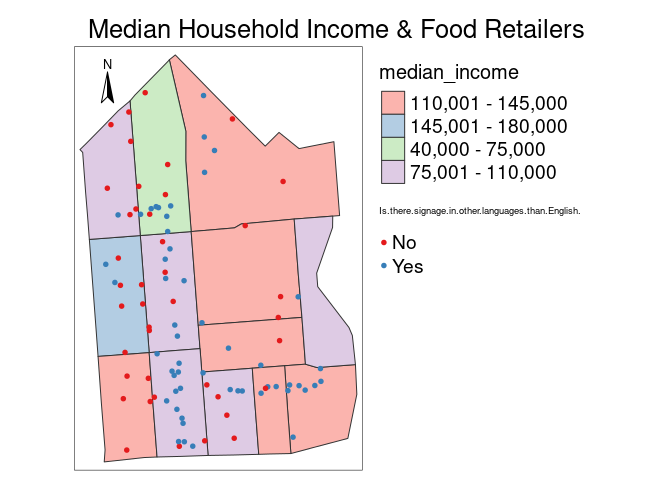
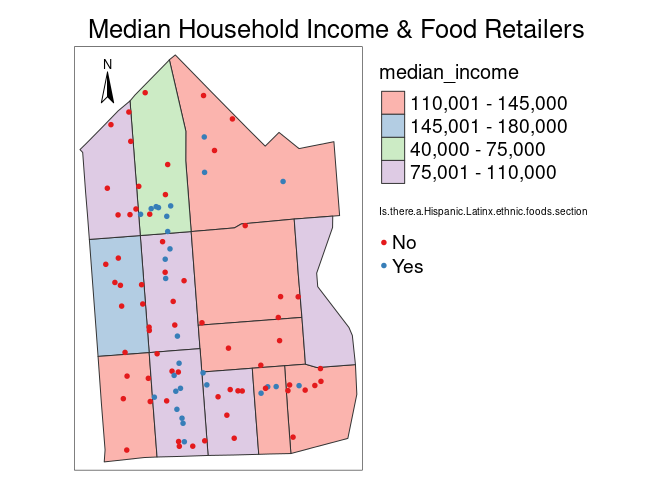
wac

diff --git a/Honors-Thesis-Workbook.md b/Honors-Thesis-Workbook.md
@@ -100,14 +100,14 @@ retail_data <- read_csv("Food Retail Final List (Edit 3_30).csv") %>%
 ```
 
     ## New names:
-    ## * `` -> ...47
+    ## * `` -> ...48
 
-    ## Rows: 97 Columns: 50
+    ## Rows: 97 Columns: 51
     ## ── Column specification ────────────────────────────────────────────────────────
     ## Delimiter: ","
-    ## chr (35): Timestamp, Name of Food Retailer, Address, Date Assessed, Type of ...
+    ## chr (36): Timestamp, Name of Food Retailer, Address, Date Assessed, Type of ...
     ## dbl (13): Median Price of a Dozen Eggs, Median Price of a Loaf of Bread, Mil...
-    ## lgl  (1): ...47
+    ## lgl  (1): ...48
     ## 
     ## ℹ Use `spec()` to retrieve the full column specification for this data.
     ## ℹ Specify the column types or set `show_col_types = FALSE` to quiet this message.
@@ -117,7 +117,7 @@ retail_data$coord <- paste(retail_data$lon, retail_data$lat)
 retail_data
 ```
 
-    ## # A tibble: 97 × 50
+    ## # A tibble: 97 × 51
     ##    `Name of Food Reta…` Address `Date Assessed` `Type of Store` `What type of …`
     ##    <chr>                <chr>   <chr>           <chr>           <chr>           
     ##  1 Mission Foodhall     3100 1… 1/26/2022       Specialty Food… Foodhall        
@@ -130,7 +130,7 @@ retail_data
     ##  8 Valencia Farmer’s M… 1299 V… 1/26/2022       Grocery Store   <NA>            
     ##  9 Valencia Grocery     1300 V… 1/26/2022       Convenience St… <NA>            
     ## 10 Mr. Liquor           1200 V… 1/26/2022       Convenience St… <NA>            
-    ## # … with 87 more rows, and 45 more variables: `EBT Accepted?` <chr>,
+    ## # … with 87 more rows, and 46 more variables: `EBT Accepted?` <chr>,
     ## #   `Number of Locations (chain?)` <dbl>, `Median Price of a Dozen Eggs` <dbl>,
     ## #   `Median Price of a Loaf of Bread` <dbl>,
     ## #   `Median Price of a Gallon of Milk` <chr>, `Milk Standardized_Gallon` <dbl>,
@@ -308,7 +308,7 @@ totalpop <- get_decennial(geography = "tract",
                       geometry = TRUE)
 ```
 
-    ##   |                                                                              |                                                                      |   0%  |                                                                              |                                                                      |   1%  |                                                                              |=                                                                     |   1%  |                                                                              |=                                                                     |   2%  |                                                                              |==                                                                    |   2%  |                                                                              |==                                                                    |   3%  |                                                                              |===                                                                   |   4%  |                                                                              |===                                                                   |   5%  |                                                                              |====                                                                  |   5%  |                                                                              |====                                                                  |   6%  |                                                                              |=====                                                                 |   6%  |                                                                              |=====                                                                 |   7%  |                                                                              |=====                                                                 |   8%  |                                                                              |======                                                                |   8%  |                                                                              |======                                                                |   9%  |                                                                              |=======                                                               |   9%  |                                                                              |=======                                                               |  10%  |                                                                              |=======                                                               |  11%  |                                                                              |========                                                              |  11%  |                                                                              |========                                                              |  12%  |                                                                              |=========                                                             |  13%  |                                                                              |==========                                                            |  14%  |                                                                              |==========                                                            |  15%  |                                                                              |===========                                                           |  16%  |                                                                              |============                                                          |  17%  |                                                                              |=============                                                         |  18%  |                                                                              |=============                                                         |  19%  |                                                                              |==============                                                        |  19%  |                                                                              |===============                                                       |  21%  |                                                                              |================                                                      |  23%  |                                                                              |==================                                                    |  25%  |                                                                              |===================                                                   |  27%  |                                                                              |====================                                                  |  28%  |                                                                              |=====================                                                 |  30%  |                                                                              |======================                                                |  31%  |                                                                              |========================                                              |  34%  |                                                                              |=========================                                             |  35%  |                                                                              |==========================                                            |  37%  |                                                                              |===========================                                           |  39%  |                                                                              |============================                                          |  40%  |                                                                              |=============================                                         |  42%  |                                                                              |==============================                                        |  43%  |                                                                              |===============================                                       |  45%  |                                                                              |================================                                      |  45%  |                                                                              |================================                                      |  46%  |                                                                              |=================================                                     |  48%  |                                                                              |====================================                                  |  51%  |                                                                              |=====================================                                 |  52%  |                                                                              |======================================                                |  54%  |                                                                              |=======================================                               |  55%  |                                                                              |=================================================                     |  71%  |                                                                              |==================================================                    |  71%  |                                                                              |====================================================                  |  75%  |                                                                              |=====================================================                 |  75%  |                                                                              |======================================================================| 100%
+    ##   |                                                                              |                                                                      |   0%  |                                                                              |                                                                      |   1%  |                                                                              |=                                                                     |   1%  |                                                                              |=                                                                     |   2%  |                                                                              |==                                                                    |   2%  |                                                                              |==                                                                    |   3%  |                                                                              |===                                                                   |   4%  |                                                                              |===                                                                   |   5%  |                                                                              |====                                                                  |   5%  |                                                                              |====                                                                  |   6%  |                                                                              |=====                                                                 |   6%  |                                                                              |=====                                                                 |   7%  |                                                                              |=====                                                                 |   8%  |                                                                              |======                                                                |   8%  |                                                                              |======                                                                |   9%  |                                                                              |=======                                                               |   9%  |                                                                              |=======                                                               |  10%  |                                                                              |========                                                              |  11%  |                                                                              |=========                                                             |  12%  |                                                                              |=========                                                             |  13%  |                                                                              |==========                                                            |  14%  |                                                                              |==========                                                            |  15%  |                                                                              |===========                                                           |  15%  |                                                                              |===========                                                           |  16%  |                                                                              |============                                                          |  17%  |                                                                              |=============                                                         |  18%  |                                                                              |=============                                                         |  19%  |                                                                              |==============                                                        |  19%  |                                                                              |==============                                                        |  20%  |                                                                              |==============                                                        |  21%  |                                                                              |===============                                                       |  22%  |                                                                              |================                                                      |  23%  |                                                                              |=================                                                     |  25%  |                                                                              |==================                                                    |  26%  |                                                                              |====================                                                  |  29%  |                                                                              |======================                                                |  32%  |                                                                              |=======================                                               |  33%  |                                                                              |================================                                      |  46%  |                                                                              |=========================================================             |  82%  |                                                                              |======================================================================| 100%
 
 #### Table 2.2: Race Percents
 
@@ -558,14 +558,14 @@ retail_data <- read_csv("Food Retail Final List (Edit 3_30).csv")
 ```
 
     ## New names:
-    ## * `` -> ...47
+    ## * `` -> ...48
 
-    ## Rows: 97 Columns: 50
+    ## Rows: 97 Columns: 51
     ## ── Column specification ────────────────────────────────────────────────────────
     ## Delimiter: ","
-    ## chr (35): Timestamp, Name of Food Retailer, Address, Date Assessed, Type of ...
+    ## chr (36): Timestamp, Name of Food Retailer, Address, Date Assessed, Type of ...
     ## dbl (13): Median Price of a Dozen Eggs, Median Price of a Loaf of Bread, Mil...
-    ## lgl  (1): ...47
+    ## lgl  (1): ...48
     ## 
     ## ℹ Use `spec()` to retrieve the full column specification for this data.
     ## ℹ Specify the column types or set `show_col_types = FALSE` to quiet this message.
@@ -575,7 +575,7 @@ retail_data$coord <- paste(retail_data$lon, retail_data$lat)
 retail_data
 ```
 
-    ## # A tibble: 97 × 51
+    ## # A tibble: 97 × 52
     ##    Timestamp       `Name of Food Retai…` Address `Date Assessed` `Type of Store`
     ##    <chr>           <chr>                 <chr>   <chr>           <chr>          
     ##  1 1/27/2022 12:38 Mission Foodhall      3100 1… 1/26/2022       Specialty Food…
@@ -588,7 +588,7 @@ retail_data
     ##  8 1/27/2022 12:55 Valencia Farmer’s Ma… 1299 V… 1/26/2022       Grocery Store  
     ##  9 1/27/2022 12:59 Valencia Grocery      1300 V… 1/26/2022       Convenience St…
     ## 10 1/27/2022 13:02 Mr. Liquor            1200 V… 1/26/2022       Convenience St…
-    ## # … with 87 more rows, and 46 more variables:
+    ## # … with 87 more rows, and 47 more variables:
     ## #   `What type of Specialty Food Store?` <chr>, `EBT Accepted?` <chr>,
     ## #   `Number of Locations (chain?)` <dbl>, `Median Price of a Dozen Eggs` <dbl>,
     ## #   `Median Price of a Loaf of Bread` <dbl>,
@@ -721,14 +721,14 @@ retail_data <- read_csv("Food Retail Final List (Edit 3_30).csv") %>%
 ```
 
     ## New names:
-    ## * `` -> ...47
+    ## * `` -> ...48
 
-    ## Rows: 97 Columns: 50
+    ## Rows: 97 Columns: 51
     ## ── Column specification ────────────────────────────────────────────────────────
     ## Delimiter: ","
-    ## chr (35): Timestamp, Name of Food Retailer, Address, Date Assessed, Type of ...
+    ## chr (36): Timestamp, Name of Food Retailer, Address, Date Assessed, Type of ...
     ## dbl (13): Median Price of a Dozen Eggs, Median Price of a Loaf of Bread, Mil...
-    ## lgl  (1): ...47
+    ## lgl  (1): ...48
     ## 
     ## ℹ Use `spec()` to retrieve the full column specification for this data.
     ## ℹ Specify the column types or set `show_col_types = FALSE` to quiet this message.
@@ -738,7 +738,7 @@ retail_data$coord <- paste(retail_data$lon, retail_data$lat)
 retail_data
 ```
 
-    ## # A tibble: 97 × 50
+    ## # A tibble: 97 × 51
     ##    `Name of Food Reta…` Address `Date Assessed` `Type of Store` `What type of …`
     ##    <chr>                <chr>   <chr>           <chr>           <chr>           
     ##  1 Mission Foodhall     3100 1… 1/26/2022       Specialty Food… Foodhall        
@@ -751,7 +751,7 @@ retail_data
     ##  8 Valencia Farmer’s M… 1299 V… 1/26/2022       Grocery Store   <NA>            
     ##  9 Valencia Grocery     1300 V… 1/26/2022       Convenience St… <NA>            
     ## 10 Mr. Liquor           1200 V… 1/26/2022       Convenience St… <NA>            
-    ## # … with 87 more rows, and 45 more variables: `EBT Accepted?` <chr>,
+    ## # … with 87 more rows, and 46 more variables: `EBT Accepted?` <chr>,
     ## #   `Number of Locations (chain?)` <dbl>, `Median Price of a Dozen Eggs` <dbl>,
     ## #   `Median Price of a Loaf of Bread` <dbl>,
     ## #   `Median Price of a Gallon of Milk` <chr>, `Milk Standardized_Gallon` <dbl>,
@@ -785,7 +785,7 @@ retail_EBT <- retail_map %>%
 retail_EBT
 ```
 
-    ## # A tibble: 58 × 50
+    ## # A tibble: 58 × 51
     ##    Timestamp       `Name of Food Retai…` Address `Date Assessed` `Type of Store`
     ##    <chr>           <chr>                 <chr>   <chr>           <chr>          
     ##  1 1/27/2022 12:43 E And M Market        399 Va… 1/26/2022       Convenience St…
@@ -798,7 +798,7 @@ retail_EBT
     ##  8 2/9/2022 13:16  New Star Market Liqu… 269 14… 2/9/2022        Convenience St…
     ##  9 2/9/2022 13:25  S & M Liquor & Market 1939 M… 2/9/2022        Convenience St…
     ## 10 2/9/2022 13:32  Hwa Lei Market        2970 1… 2/9/2022        Grocery Store  
-    ## # … with 48 more rows, and 45 more variables:
+    ## # … with 48 more rows, and 46 more variables:
     ## #   `What type of Specialty Food Store?` <chr>, `EBT Accepted?` <chr>,
     ## #   `Number of Locations (chain?)` <dbl>, `Median Price of a Dozen Eggs` <dbl>,
     ## #   `Median Price of a Loaf of Bread` <dbl>,
@@ -826,7 +826,7 @@ intersection_join <- st_join(intersection, incomejoin_test, join = st_intersects
 intersection_join
 ```
 
-    ## # A tibble: 94 × 53
+    ## # A tibble: 94 × 54
     ##    Timestamp       Name.of.Food.Retailer     Address Date.Assessed Type.of.Store
     ##    <chr>           <chr>                     <chr>   <chr>         <chr>        
     ##  1 1/27/2022 12:38 Mission Foodhall          3100 1… 1/26/2022     Specialty Fo…
@@ -839,7 +839,7 @@ intersection_join
     ##  8 1/27/2022 12:55 Valencia Farmer’s Market  1299 V… 1/26/2022     Grocery Store
     ##  9 1/27/2022 12:59 Valencia Grocery          1300 V… 1/26/2022     Convenience …
     ## 10 1/27/2022 13:02 Mr. Liquor                1200 V… 1/26/2022     Convenience …
-    ## # … with 84 more rows, and 48 more variables:
+    ## # … with 84 more rows, and 49 more variables:
     ## #   What.type.of.Specialty.Food.Store. <chr>, EBT.Accepted. <chr>,
     ## #   Number.of.Locations..chain.. <dbl>, Median.Price.of.a.Dozen.Eggs <dbl>,
     ## #   Median.Price.of.a.Loaf.of.Bread <dbl>,
@@ -929,7 +929,7 @@ primary_table <- st_join(intersection_join, contruct_tab)
 primary_table
 ```
 
-    ## # A tibble: 94 × 54
+    ## # A tibble: 94 × 55
     ##    Timestamp       Name.of.Food.Retailer     Address Date.Assessed Type.of.Store
     ##    <chr>           <chr>                     <chr>   <chr>         <chr>        
     ##  1 1/27/2022 12:38 Mission Foodhall          3100 1… 1/26/2022     Specialty Fo…
@@ -942,7 +942,7 @@ primary_table
     ##  8 1/27/2022 12:55 Valencia Farmer’s Market  1299 V… 1/26/2022     Grocery Store
     ##  9 1/27/2022 12:59 Valencia Grocery          1300 V… 1/26/2022     Convenience …
     ## 10 1/27/2022 13:02 Mr. Liquor                1200 V… 1/26/2022     Convenience …
-    ## # … with 84 more rows, and 49 more variables:
+    ## # … with 84 more rows, and 50 more variables:
     ## #   What.type.of.Specialty.Food.Store. <chr>, EBT.Accepted. <chr>,
     ## #   Number.of.Locations..chain.. <dbl>, Median.Price.of.a.Dozen.Eggs <dbl>,
     ## #   Median.Price.of.a.Loaf.of.Bread <dbl>,
@@ -1022,7 +1022,7 @@ price_map <- price_table %>%
 price_map
 ```
 
-    ## # A tibble: 94 × 37
+    ## # A tibble: 94 × 38
     ##    Name.of.Food.Retailer      Median.Price.of… Median.Price.of… Median.Price.of…
     ##    <chr>                                 <dbl>            <dbl> <chr>           
     ##  1 Mission Foodhall                       7.49             9.99 5.49 (half)     
@@ -1035,7 +1035,7 @@ price_map
     ##  8 Valencia Farmer’s Market               4.74             4.69 5.99            
     ##  9 Valencia Grocery                       3.99            NA    3.99            
     ## 10 Mr. Liquor                            NA               NA    <NA>            
-    ## # … with 84 more rows, and 33 more variables: Milk.Standardized_Gallon <dbl>,
+    ## # … with 84 more rows, and 34 more variables: Milk.Standardized_Gallon <dbl>,
     ## #   Median.Price.of.Oranges <chr>, Orange.Standardized_lbs <dbl>,
     ## #   Median.Price.of.Organic.Oranges <chr>,
     ## #   Organic.Oranges.Standardized_lbs <dbl>, Median.Price.of.Avocados <chr>,
@@ -1048,7 +1048,7 @@ primary_table_price <- left_join(primary_table, price_map, by = "Name.of.Food.Re
 primary_table_price
 ```
 
-    ## # A tibble: 98 × 90
+    ## # A tibble: 98 × 92
     ##    Timestamp       Name.of.Food.Retailer     Address Date.Assessed Type.of.Store
     ##    <chr>           <chr>                     <chr>   <chr>         <chr>        
     ##  1 1/27/2022 12:38 Mission Foodhall          3100 1… 1/26/2022     Specialty Fo…
@@ -1061,7 +1061,7 @@ primary_table_price
     ##  8 1/27/2022 12:55 Valencia Farmer’s Market  1299 V… 1/26/2022     Grocery Store
     ##  9 1/27/2022 12:59 Valencia Grocery          1300 V… 1/26/2022     Convenience …
     ## 10 1/27/2022 13:02 Mr. Liquor                1200 V… 1/26/2022     Convenience …
-    ## # … with 88 more rows, and 85 more variables:
+    ## # … with 88 more rows, and 87 more variables:
     ## #   What.type.of.Specialty.Food.Store. <chr>, EBT.Accepted. <chr>,
     ## #   Number.of.Locations..chain.. <dbl>, Median.Price.of.a.Dozen.Eggs.x <dbl>,
     ## #   Median.Price.of.a.Loaf.of.Bread.x <dbl>,
@@ -1503,7 +1503,7 @@ ethnicity_other_language_count[, c(1, 2, 3, 5, 4)]
 \#work in progress
 
 ``` r
-dots_ethnic_section <- tm_shape(primary_table) + tm_dots(size=.1, col="Is.there.signage.in.other.languages.than.English." , palette="Set1")
+dots_ethnic_section <- tm_shape(primary_table) + tm_dots(size=.1, col="Is.there.a.Hispanic.Latinx.ethnic.foods.section." , palette="Set1")
 incomemap_with_food_retailers <- tm_shape(incomejoin_test) +
              tm_style("watercolor") +
              tm_polygons("median_income") +
@@ -1516,18 +1516,58 @@ incomemap_with_food_retailers <- tm_shape(incomejoin_test) +
              legend.title.size = 1.5,
              legend.text.size = 1.2) +
   tm_compass(position = c("left", "top"))
-income_plus_language <- incomemap_with_food_retailers + dots_language
-ethnicity_plus_language <- ethnicity_map_with_food_retailers + dots_language
-income_plus_language
+income_plus_ethnic <- incomemap_with_food_retailers + dots_ethnic_section
+ethnicity_plus_ethnic <- ethnicity_map_with_food_retailers + dots_ethnic_section
+income_plus_ethnic
 ```
 
 ![](Honors-Thesis-Workbook_files/figure-gfm/unnamed-chunk-51-1.png)<!-- -->
 
 ``` r
-ethnicity_plus_language
+ethnicity_plus_ethnic
 ```
 
 ![](Honors-Thesis-Workbook_files/figure-gfm/unnamed-chunk-51-2.png)<!-- -->
+
+``` r
+income_ethnic_count <- intersection_join %>% 
+  group_by(median_income, Is.there.a.Hispanic.Latinx.ethnic.foods.section.) %>% 
+  count() %>%
+  mutate(percent = (n / nrow(primary_table)) * 100) %>%
+  rename("number of retailers" = "n")
+income_ethnic_count[, c(1, 2, 3, 5, 4)]
+```
+
+    ## # A tibble: 7 × 5
+    ##   median_income     Is.there.a.Hispanic.Latinx.ethnic.… `number of ret…` percent
+    ##   <chr>             <chr>                                          <int>   <dbl>
+    ## 1 110,001 - 145,000 No                                                24   25.5 
+    ## 2 110,001 - 145,000 Yes                                                7    7.45
+    ## 3 145,001 - 180,000 No                                                 8    8.51
+    ## 4 40,000 - 75,000   No                                                 5    5.32
+    ## 5 40,000 - 75,000   Yes                                                7    7.45
+    ## 6 75,001 - 110,000  No                                                28   29.8 
+    ## 7 75,001 - 110,000  Yes                                               15   16.0 
+    ## # … with 1 more variable: geom <MULTIPOINT [°]>
+
+``` r
+ethnicity_ethnic_count <- intersection_2 %>%
+  rename("majority_ethnicity" = "Majority") %>%
+  group_by(majority_ethnicity, Is.there.a.Hispanic.Latinx.ethnic.foods.section.) %>%
+  count() %>%
+  mutate(percent = (n / nrow(primary_table)) * 100) %>%
+  rename("number of retailers" = "n")
+ethnicity_ethnic_count[, c(1, 2, 3, 5, 4)]
+```
+
+    ## # A tibble: 4 × 5
+    ##   majority_ethnicity Is.there.a.Hispanic.Latinx.ethnic… `number of ret…` percent
+    ##   <chr>              <chr>                                         <int>   <dbl>
+    ## 1 Hispanic or Latinx No                                               27   28.7 
+    ## 2 Hispanic or Latinx Yes                                              25   26.6 
+    ## 3 White              No                                               38   40.4 
+    ## 4 White              Yes                                               4    4.26
+    ## # … with 1 more variable: geometry <MULTIPOINT [°]>
 
 \##Sustainability \###Environmental Sustainability
 
@@ -1550,13 +1590,13 @@ ethnicity_plus_env <- ethnicity_map_with_food_retailers + dots_environment
 income_plus_env
 ```
 
-![](Honors-Thesis-Workbook_files/figure-gfm/unnamed-chunk-52-1.png)<!-- -->
+![](Honors-Thesis-Workbook_files/figure-gfm/unnamed-chunk-53-1.png)<!-- -->
 
 ``` r
 ethnicity_plus_env
 ```
 
-![](Honors-Thesis-Workbook_files/figure-gfm/unnamed-chunk-52-2.png)<!-- -->
+![](Honors-Thesis-Workbook_files/figure-gfm/unnamed-chunk-53-2.png)<!-- -->
 
 ``` r
 income_env_count <- intersection_join %>% 
@@ -1620,13 +1660,13 @@ ethnicity_plus_social <- ethnicity_map_with_food_retailers + dots_social
 income_plus_social
 ```
 
-![](Honors-Thesis-Workbook_files/figure-gfm/unnamed-chunk-54-1.png)<!-- -->
+![](Honors-Thesis-Workbook_files/figure-gfm/unnamed-chunk-55-1.png)<!-- -->
 
 ``` r
 ethnicity_plus_social
 ```
 
-![](Honors-Thesis-Workbook_files/figure-gfm/unnamed-chunk-54-2.png)<!-- -->
+![](Honors-Thesis-Workbook_files/figure-gfm/unnamed-chunk-55-2.png)<!-- -->
 
 ``` r
 income_social_count <- intersection_join %>% 
